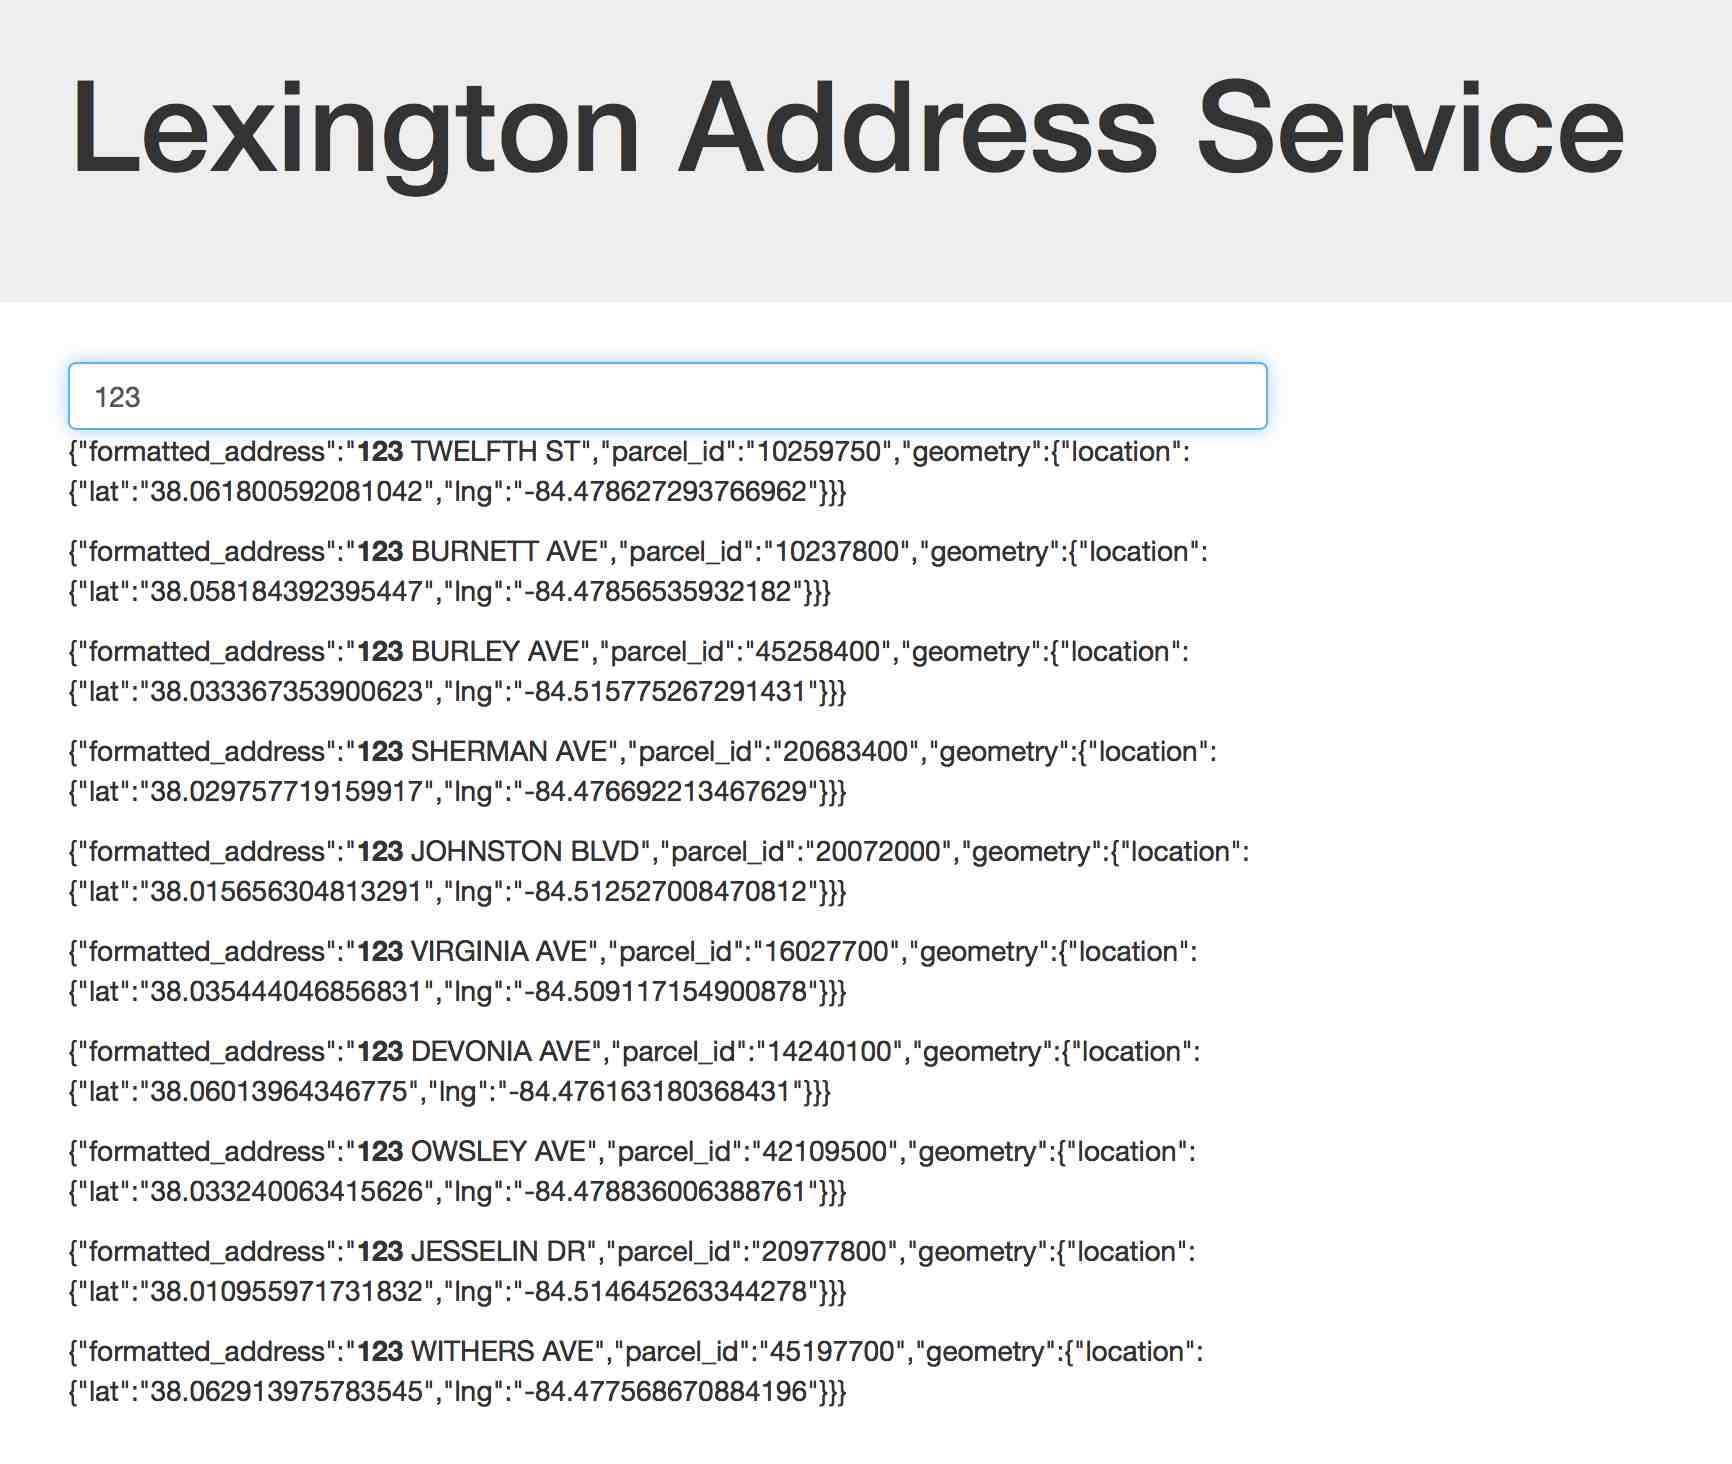
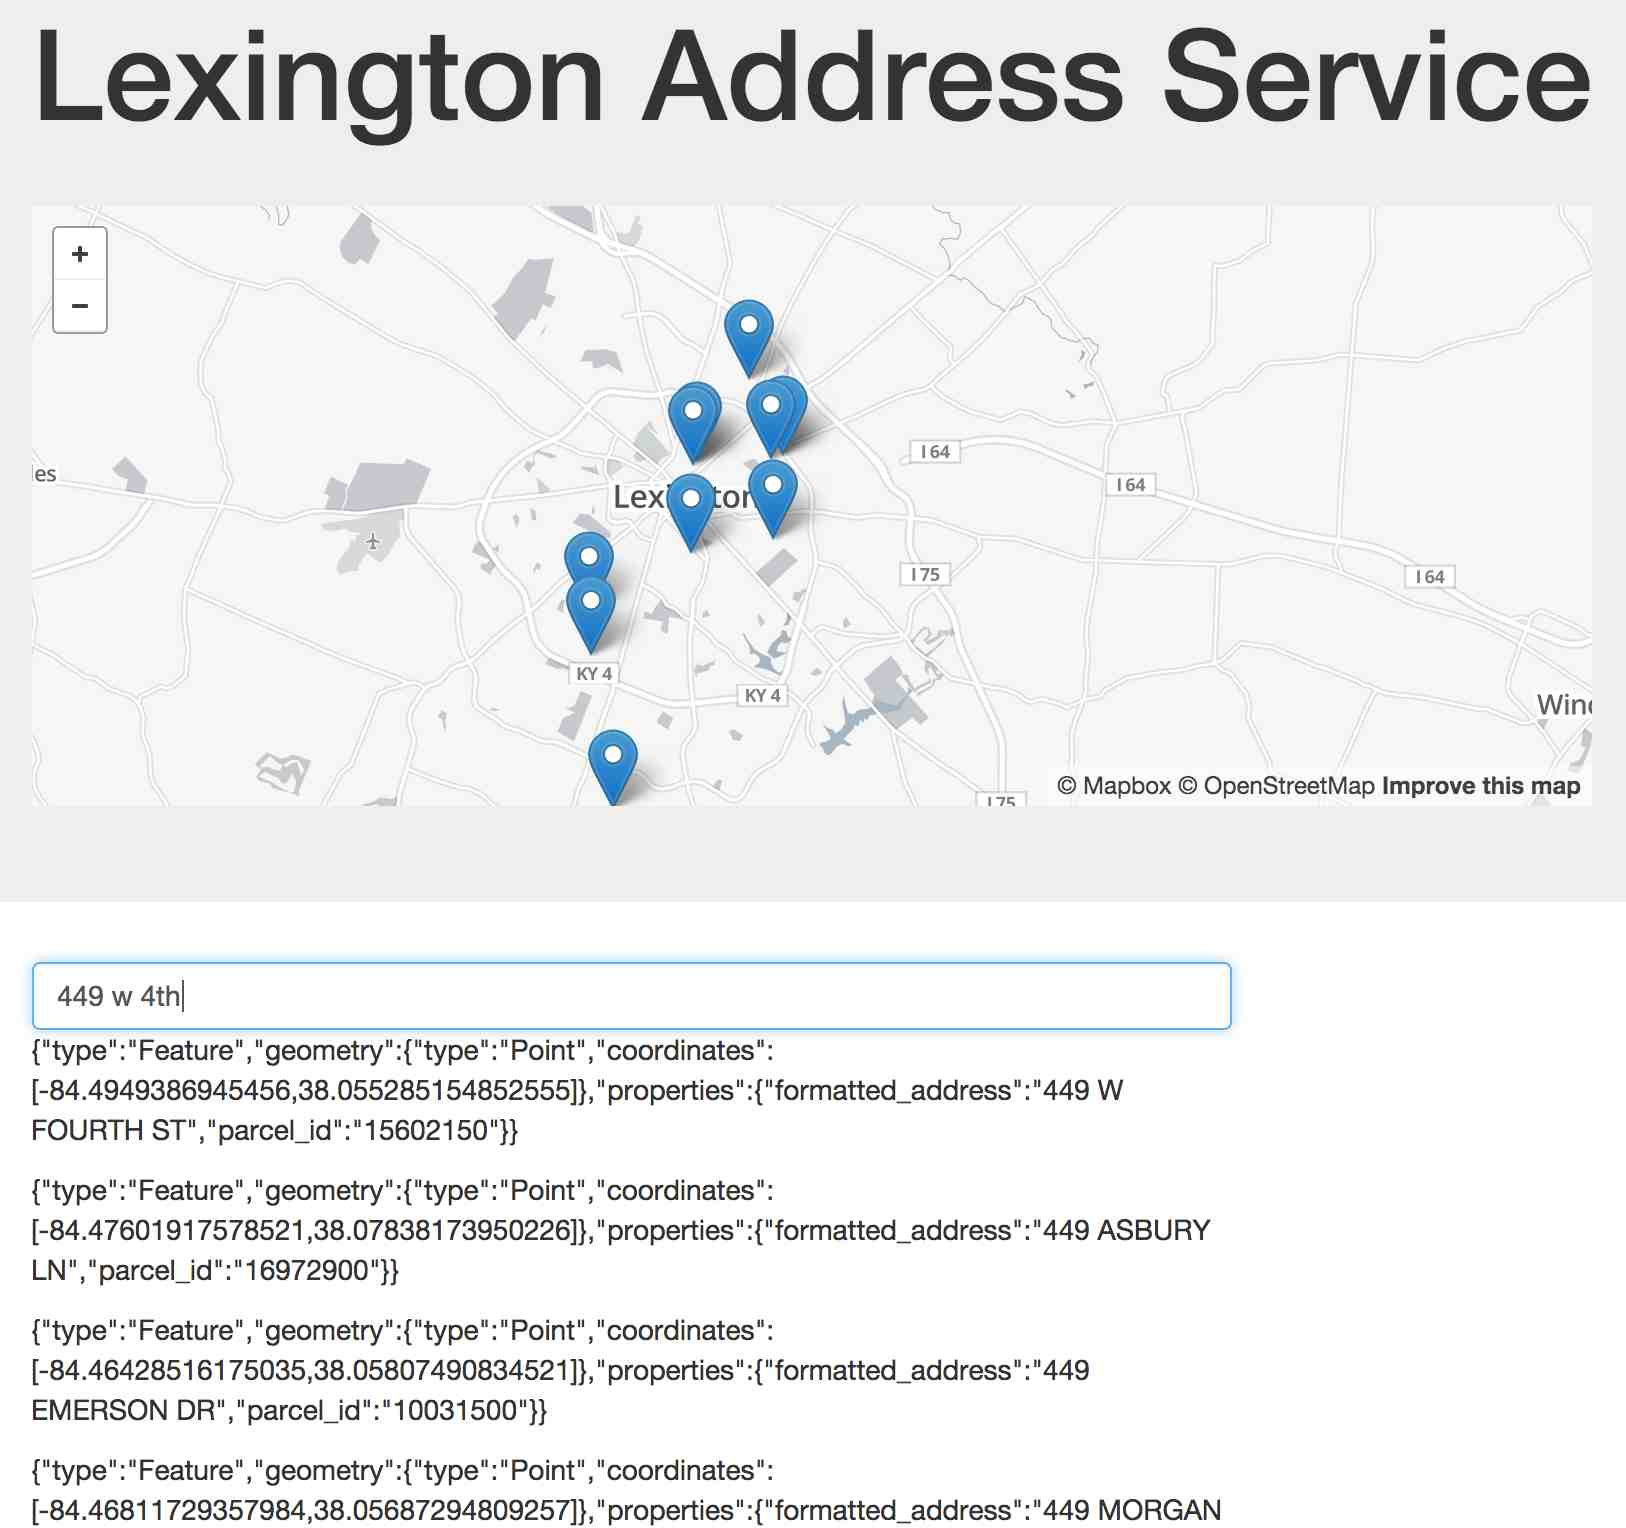
Update readme

diff --git a/README.md b/README.md
@@ -10,19 +10,29 @@ Because LFUCG (Lexington's government) has many datasets that contain addresses 
 
 When programming, make an HTTP GET request to `http://lexington-geocoder.herokuapp.com/geocode?query=449+w+4th`
 
-The JSON response is similar to Google's geocoder
+The geoJSON response:
 
 ```
-{"results":
-	[
-		{"formatted_address":"449 W FOURTH ST",
-			"parcel_id":"15602150",
-			"geometry":{"location":	{"lat":38.0552851548526,"lng":-84.4949386945456}}},
-		{"formatted_address":"449 W SECOND ST",
-			"parcel_id":"10350975",
-			"geometry":{"location": {"lat":38.0527766687416,"lng":-84.4985605645134}}}
-	]
-}
+{
+"type": "FeatureCollection",
+   "features": [
+       {
+	       	"type": "Feature",
+	       	"geometry": {
+	       		"type": "Point",
+	        	"coordinates": [
+		       		-84.4949386945456,
+		       		38.055285154852555
+	        	]
+       		},
+   	   		"properties": {
+   	       		"formatted_address": "449 W FOURTH ST",
+          		"parcel_id": "15602150"
+       		}
+       }, 
+       ... { more features }
+   ]
+},
 ```
 
 The json result can be previewed through the [HTML UI](http://lexington-geocoder.herokuapp.com/) ![HTML UI](https://raw.githubusercontent.com/codeforamerica/lexington-geocoder/master/public/images/screenshot.jpg)
@@ -35,11 +45,13 @@ The json result can be previewed through the [HTML UI](http://lexington-geocoder
 
 ### Who is this made by?
 
-Why, Lexingteam of course.
+Lexingteam! 
 
 * [Erik Schwartz](https://github.com/eeeschwartz)
 * [Lyzi Diamond](https://github.com/lyzidiamond)
 * [Livien Yin](https://github.com/livienyin)
+
+With completely indispensable help from Jonathan Hollinger and Shaye Rabold at [Lexington-Fayette Urban County Government](http://lexingtonky.gov/) and David O'Neill, the [Property Valuation Administrator](http://www.fayette-pva.com/)
 
 ### Setup
 
@@ -63,7 +75,16 @@ csvsql --db postgresql:///lexington_geocoder --insert --table parcels data/Parce
 ruby index_addresses.rb
 ... takes a few minutes
 bundle exec rackup
-
-`curl http://localhost:9292/geocode?query=449+w+4th`
-... should return some json!
 ```
+
+### Test it out
+
+* If you have access to the 'curl' command
+
+`curl http://localhost:9292/geocode?query=449+w+4th` ... should return some json!
+
+* [Ajax example](https://github.com/codeforamerica/lexington-geocoder/blob/2b6326565643be0264b17b4b2af27f47887ac225/views/index.erb#L55) in javascript
+
+
+
+
